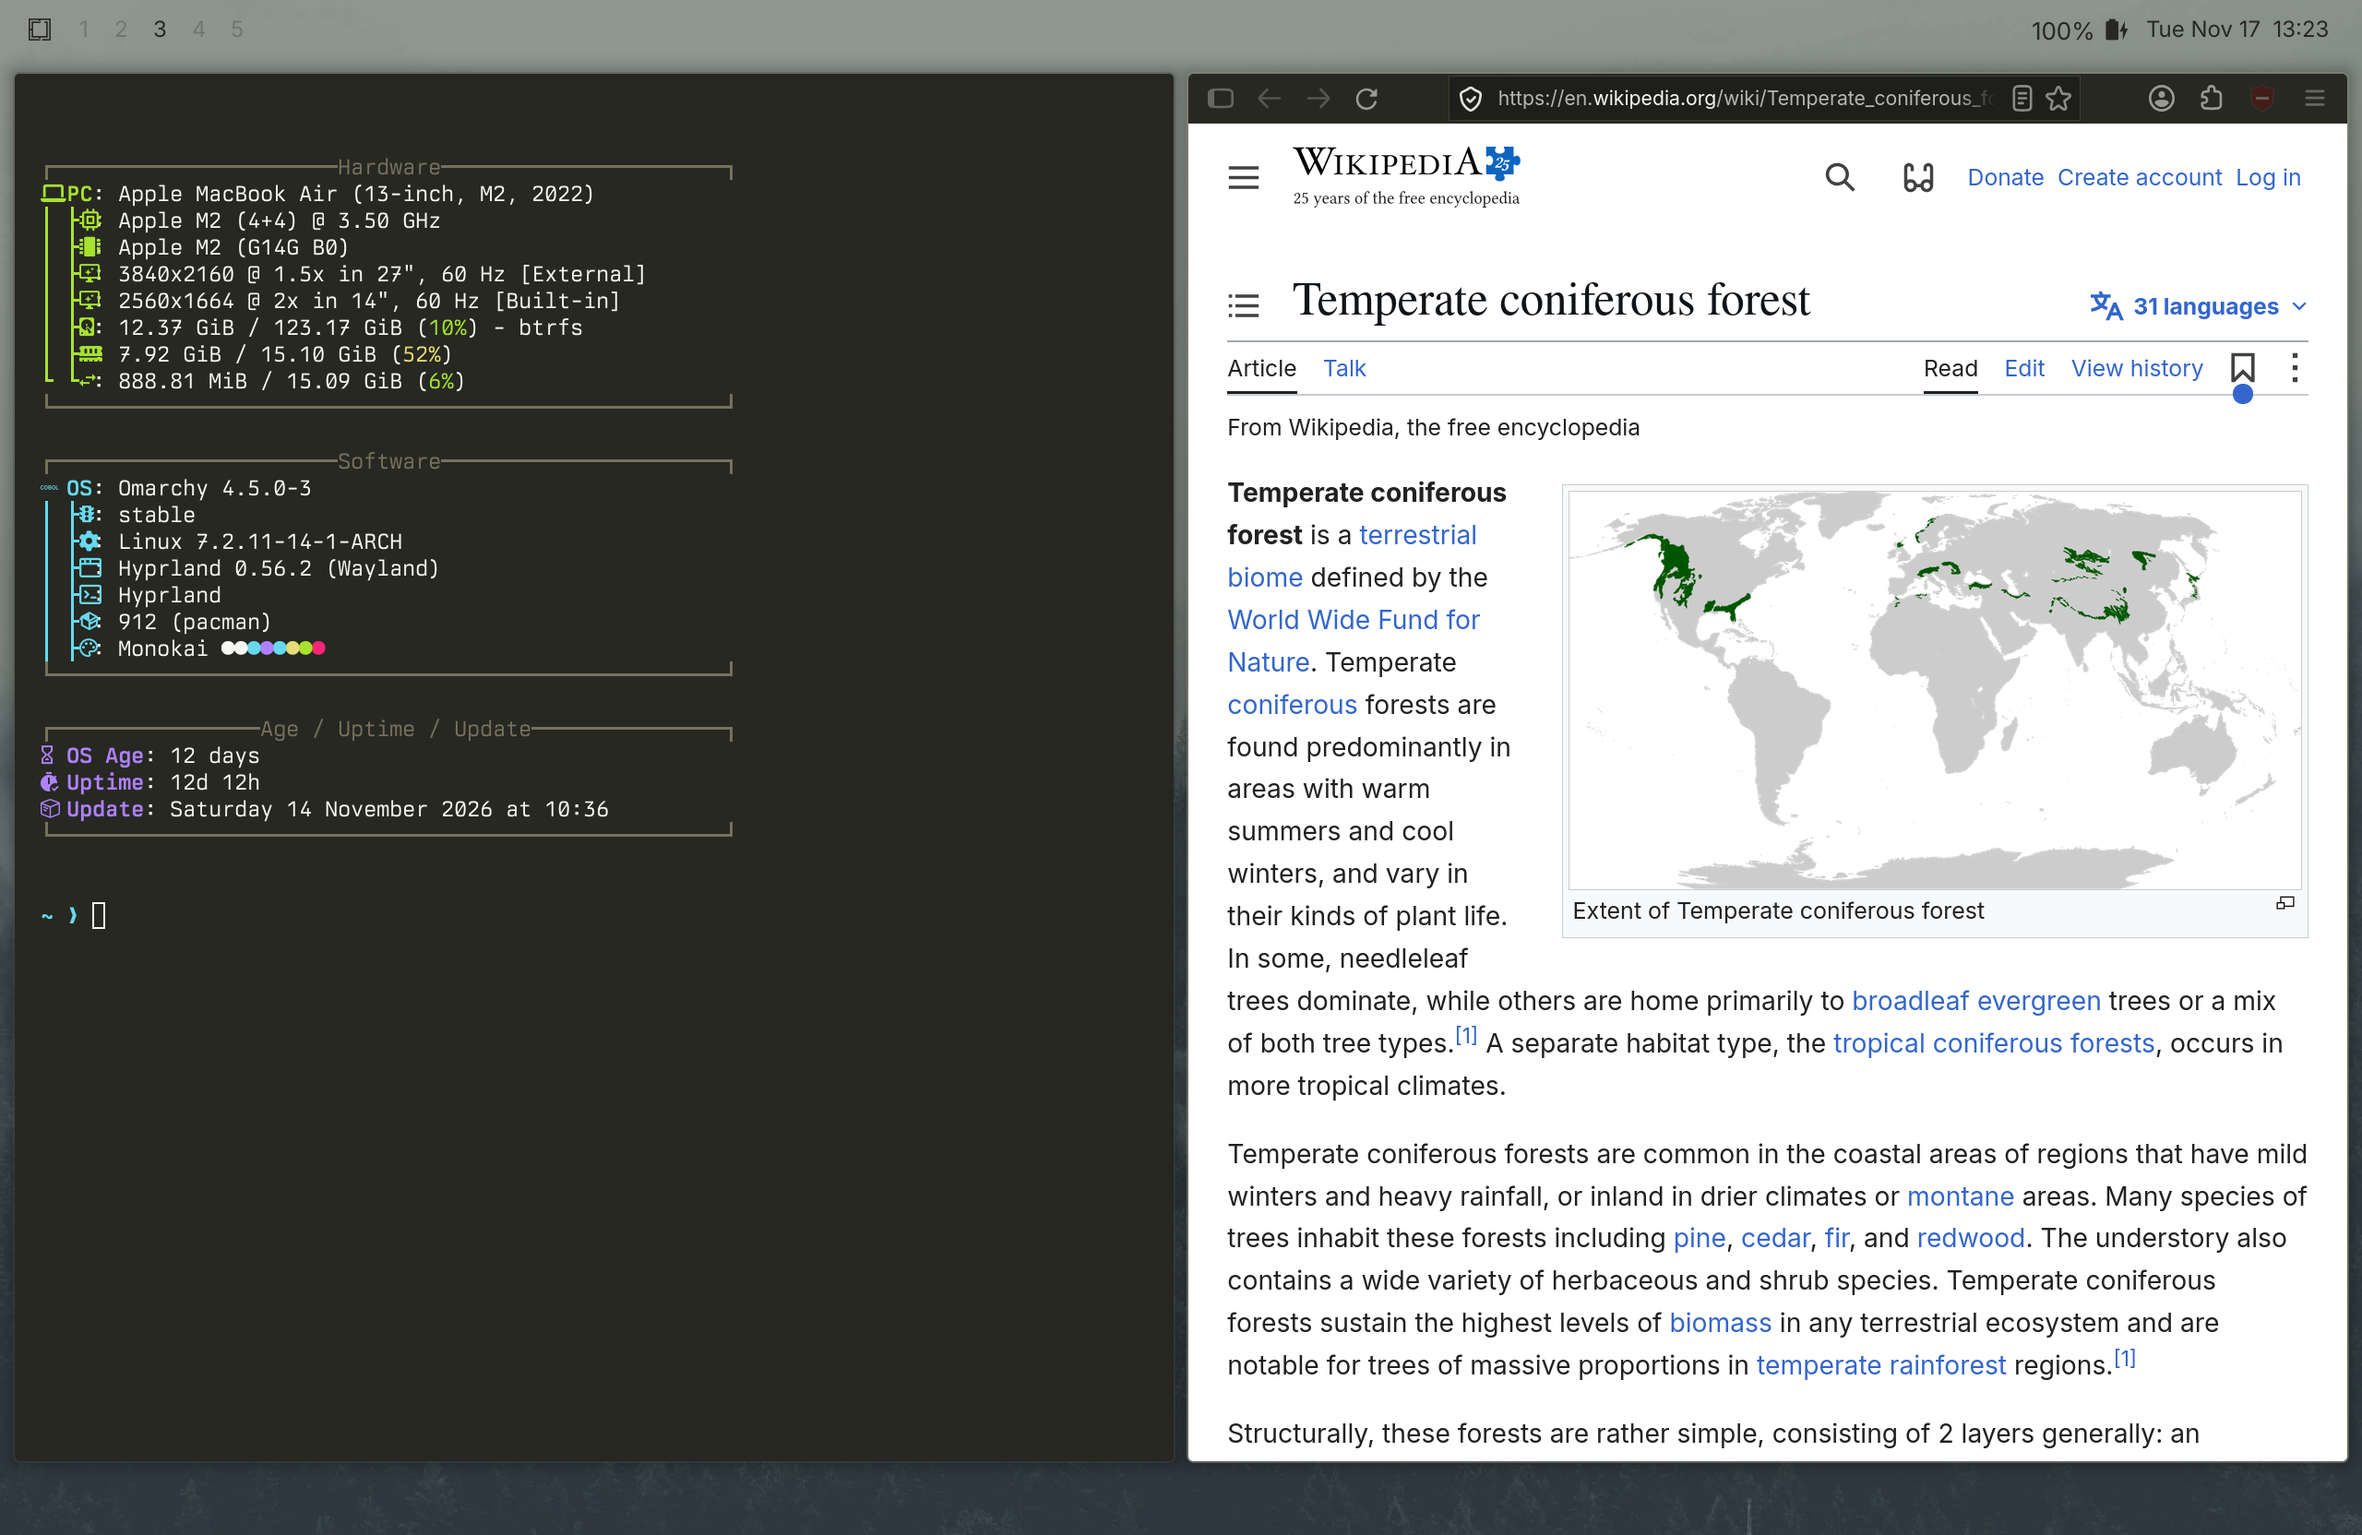
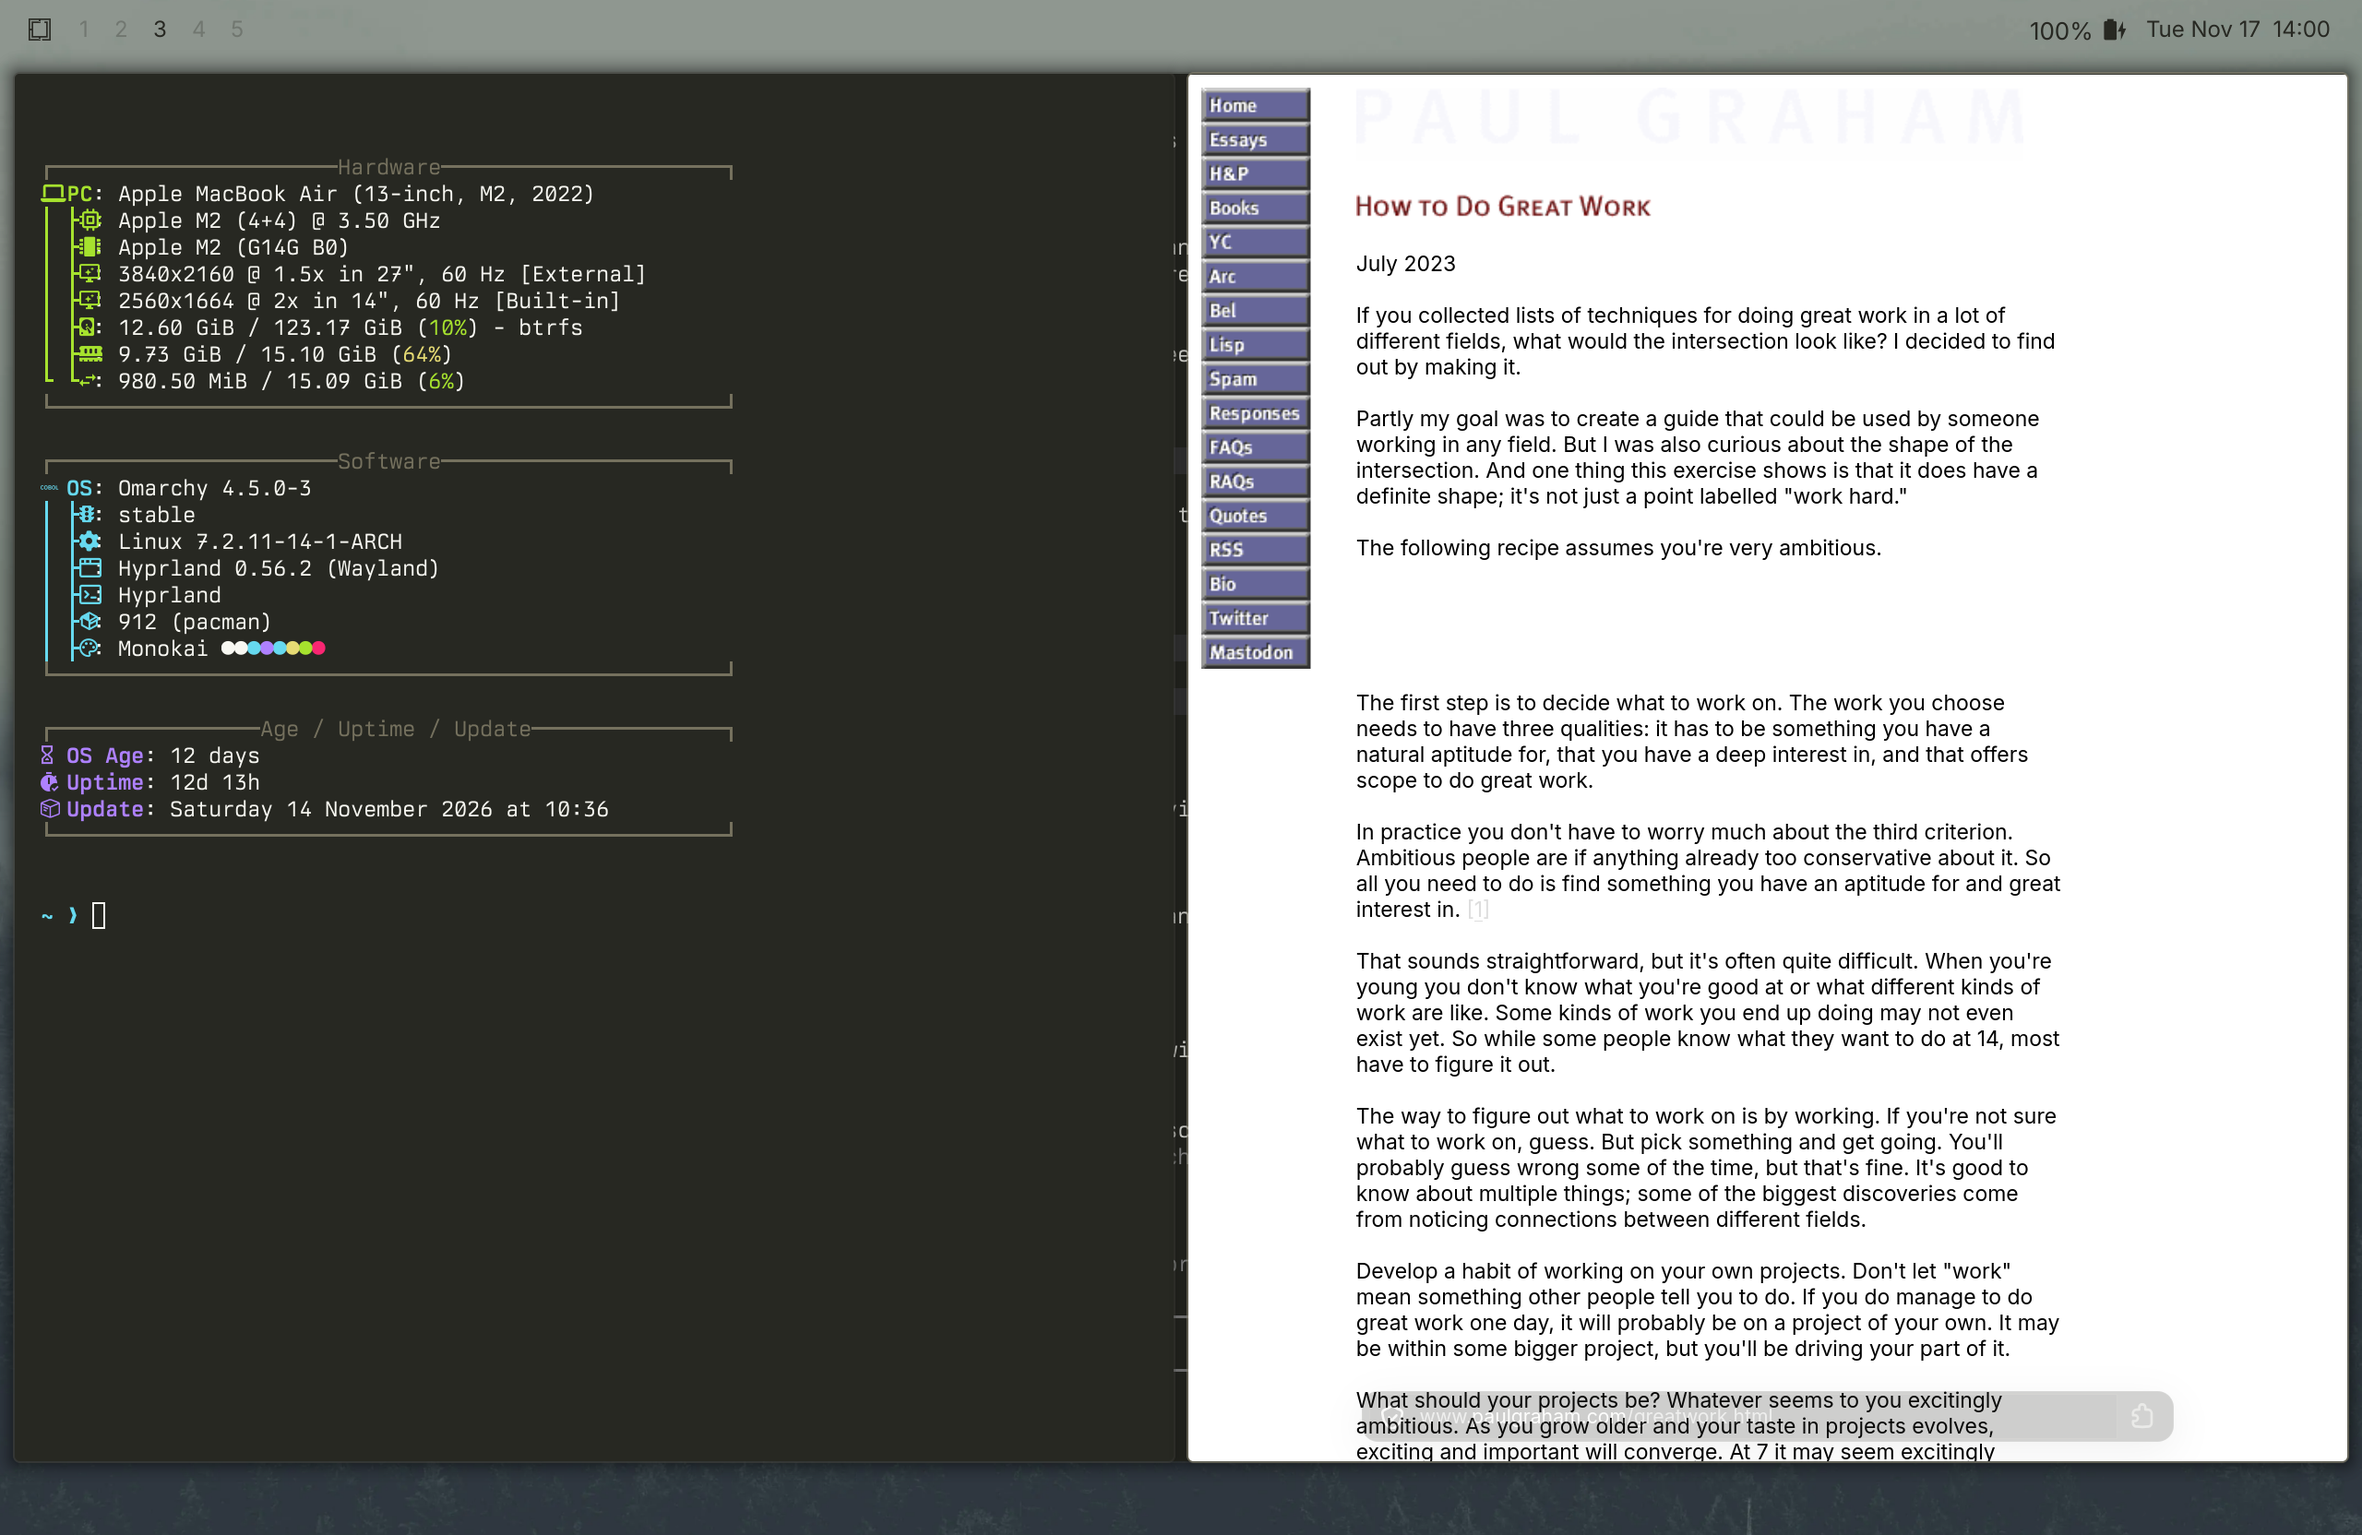
README: calm browser, Cmd+K and URL pill screenshots; no Mozilla data notice

Changed region(s): [[0.5, 0.0, 1.0, 0.9688], [0.0625, 0.2188, 0.0938, 0.25]]

diff --git a/.config/mozilla/firefox/fo6dm8yb.default-release/user.js b/.config/mozilla/firefox/fo6dm8yb.default-release/user.js
@@ -35,3 +35,5 @@ user_pref("browser.urlbar.autoFill.adaptiveHistory.enabled", true);
 // Domain bright, the rest of the URL dimmed (the pill shows mostly the domain).
 user_pref("browser.urlbar.formatting.enabled", true);
 user_pref("browser.urlbar.trimHttps", true);
+// No "Firefox automatically sends some data to Mozilla" notice bar.
+user_pref("datareporting.policy.dataSubmissionPolicyBypassNotification", true);

diff --git a/.config/omarchy/firefox-webapp/user.js b/.config/omarchy/firefox-webapp/user.js
@@ -37,3 +37,5 @@ user_pref("browser.urlbar.autoFill.adaptiveHistory.enabled", true);
 // Domain bright, the rest of the URL dimmed (the pill shows mostly the domain).
 user_pref("browser.urlbar.formatting.enabled", true);
 user_pref("browser.urlbar.trimHttps", true);
+// No "Firefox automatically sends some data to Mozilla" notice bar.
+user_pref("datareporting.policy.dataSubmissionPolicyBypassNotification", true);

diff --git a/.github/README.md b/.github/README.md
@@ -18,19 +18,33 @@ It isn't a fork, just an idea: a set of config files, scripts and shell plugins 
 
 ![Stack dots under a full-screen window](screenshots/stack-dots.png)
 
-**Spotlight (Cmd+Space or Cmd+K).** Omarchy's menu, widened. It has a search field across the top and a status column on the right (Wi-Fi, Bluetooth, power, sound, weather, updates) that replaces the tray icons. Arrow right to reach the status column.
+**Spotlight (Cmd+Space): the system.** Omarchy's menu, widened. It has a search field across the top and a status column on the right (Wi-Fi, Bluetooth, power, sound, weather, updates) that replaces the tray icons; arrow right to reach it. Type a web address and the first row opens it; type anything else and you can search the web.
 
 ![Spotlight](screenshots/spotlight.png)
 
-**Cmd+K: the menu for the app in front.** Panes are just content. Cmd+K dims only the pane you're in and opens a small menu over it with fuzzy search over that app's actions (in Firefox: address bar, back, reload, console, inspector, history, downloads, …) plus pane moves (halves, full screen, other display, next in stack, close). Firefox has no toolbars. The address floats in a small pill at the bottom center of the page. Each time a page loads the URL shows at full strength for three seconds, then fades to a faint pill that stays put. Hover brings it back, and on any page that isn't secure it stays fully up with a warm border. Every page gets a little room at the end, so scrolling to the bottom always clears the pill. Its buttons live in Cmd+K.
+**Cmd+K: the app in front.** Panes are just content; their chrome lives here. Cmd+K dims only the pane you're in and opens a small menu over it, with fuzzy search over that app's actions plus the pane moves (halves, full screen, other display, next in stack, new window, close). In Firefox that's the address bar, back, forward, reload, find, console, inspector, history, bookmarks, downloads and the rest.
+
+![Cmd+K over Firefox](screenshots/cmd-k.png)
+
+Apps without their own menu get just the pane moves:
+
+![Cmd+K over a terminal](screenshots/cmd-k-pane.png)
+
+**A calm browser.** Firefox has no toolbars at all: no tab strip, no buttons, no bar across the top. The page fills the pane.
+
+![Firefox, calm](screenshots/browser.png)
+
+The address floats in a small pill at the bottom center. Each time a page loads it shows at full strength for three seconds, then fades to a faint pill that stays put, so you always know where the real address is. Hover brings it back. On any page that isn't secure it stays fully up with a warm border. Every page gets a little room at the end, so scrolling to the bottom always clears it.
+
+![The URL pill, just loaded and then at rest](screenshots/url-pill.png)
+
+DuckDuckGo is the default search, uBlock Origin Lite blocks ads using only built-in rules (no downloaded lists), new tabs are blank, typing an address fills in inline instead of popping up suggestions, link previews are off, and trackpad scrolling has a Mac-like glide. Open another window (Cmd+N) and it stacks instead of tabbing.
 
 **Quiet top bar.** Workspaces on the left, battery % and date on the right, nothing else. The top bar and the bottom dot band can be black (they blend into the notch, like part of the hardware) or clear over the wallpaper: Spotlight → Trigger → Toggle → Clear/Black Bars, or `omarchy-bands clear|black`.
 
 **Multiple displays.** Each display has its own five workspaces, and trackpad swipes work on each. Moving a window to another display keeps its pane: a full-screen window stays full screen, and a left half lands in the left half.
 
 **Look.** Hand-made Monokai theme with a warm grey accent, the Inter UI font, 3pt window corners and hairline borders. No dock and no screensaver.
-
-**Firefox.** Square, compact toolbar with no tab strip; open another window (Cmd+N) and it stacks instead. Tabs still exist underneath (Cmd+T, Ctrl+Tab) for when a site insists. The address bar has no box at rest and no search-engine pill. DuckDuckGo is the default search, uBlock Origin Lite blocks ads using only built-in rules, new tabs are blank, and trackpad scrolling has a Mac-like glide.
 
 ## Keys
 
